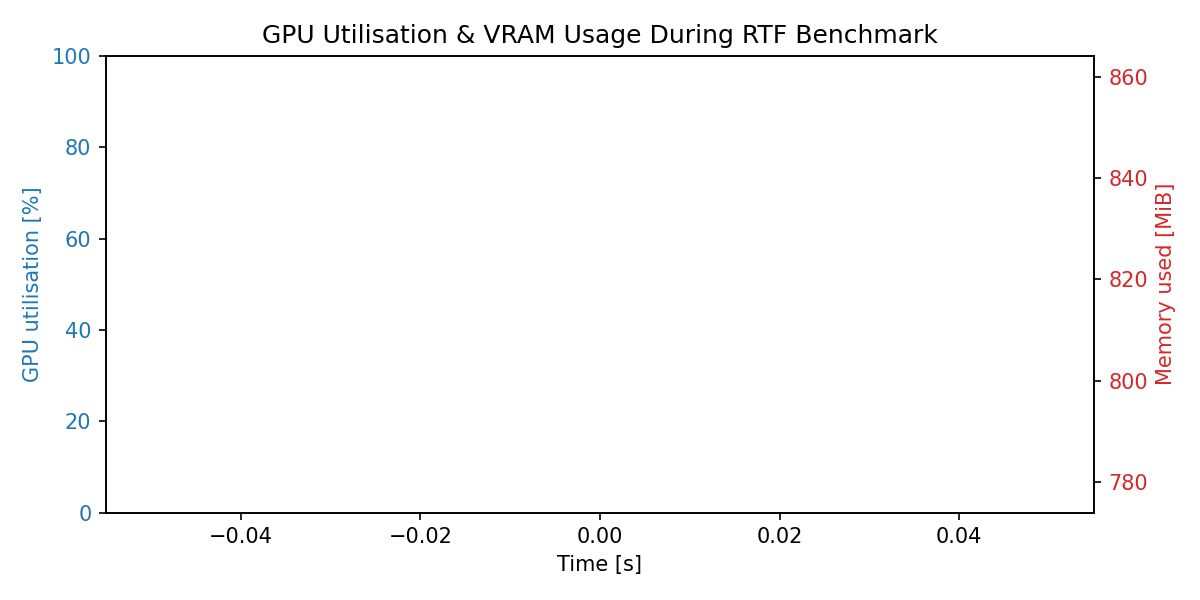
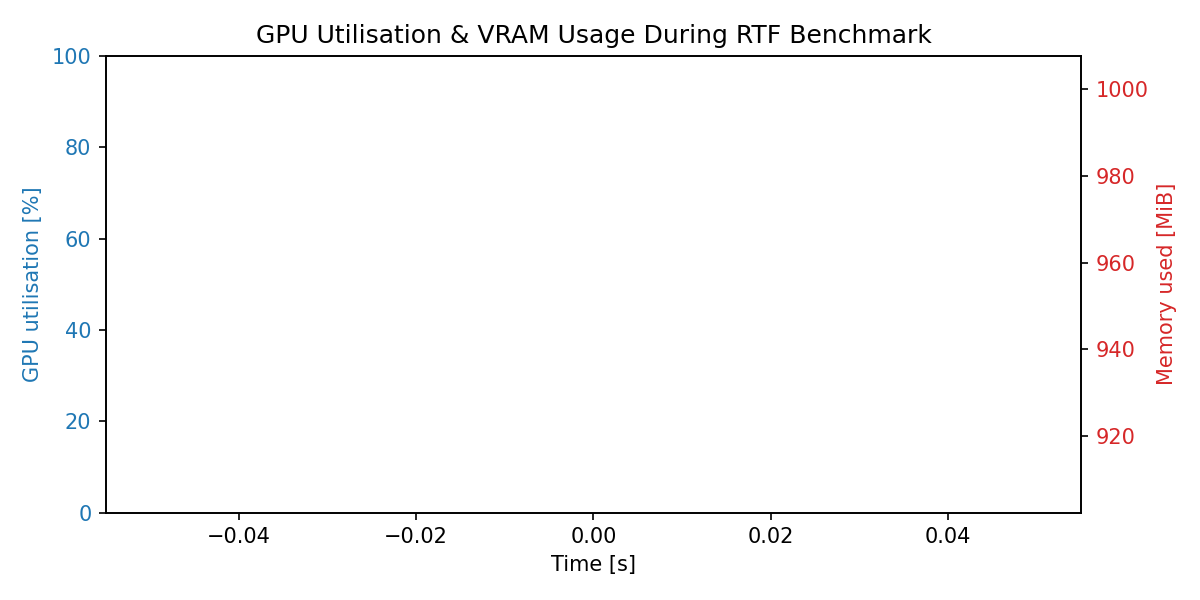
Remove placeholder Hello*.txt files and update benchmark GPU profile image

diff --git a/tmp_out/system_load_report.html b/tmp_out/system_load_report.html
@@ -1,0 +1,19 @@
+
+<!DOCTYPE html>
+<html lang="en">
+<head>
+    <meta charset="UTF-8">
+    <title>Instant Scribe – System Load Test</title>
+    <style>
+        body { font-family: sans-serif; margin: 1rem 2rem; }
+        h1   { color: #2c3e50; }
+        .summary { margin-bottom: 1rem; }
+    </style>
+</head>
+<body>
+    <h1>System Load Test Report</h1>
+    <p class="summary"><strong>VRAM Drift:</strong> GPU not detected</p>
+    <img src="system_load_plot.png" alt="Resource utilisation plot"/>
+    <p>Raw metrics available in <code>system_load_metrics.json</code>.</p>
+</body>
+</html>
